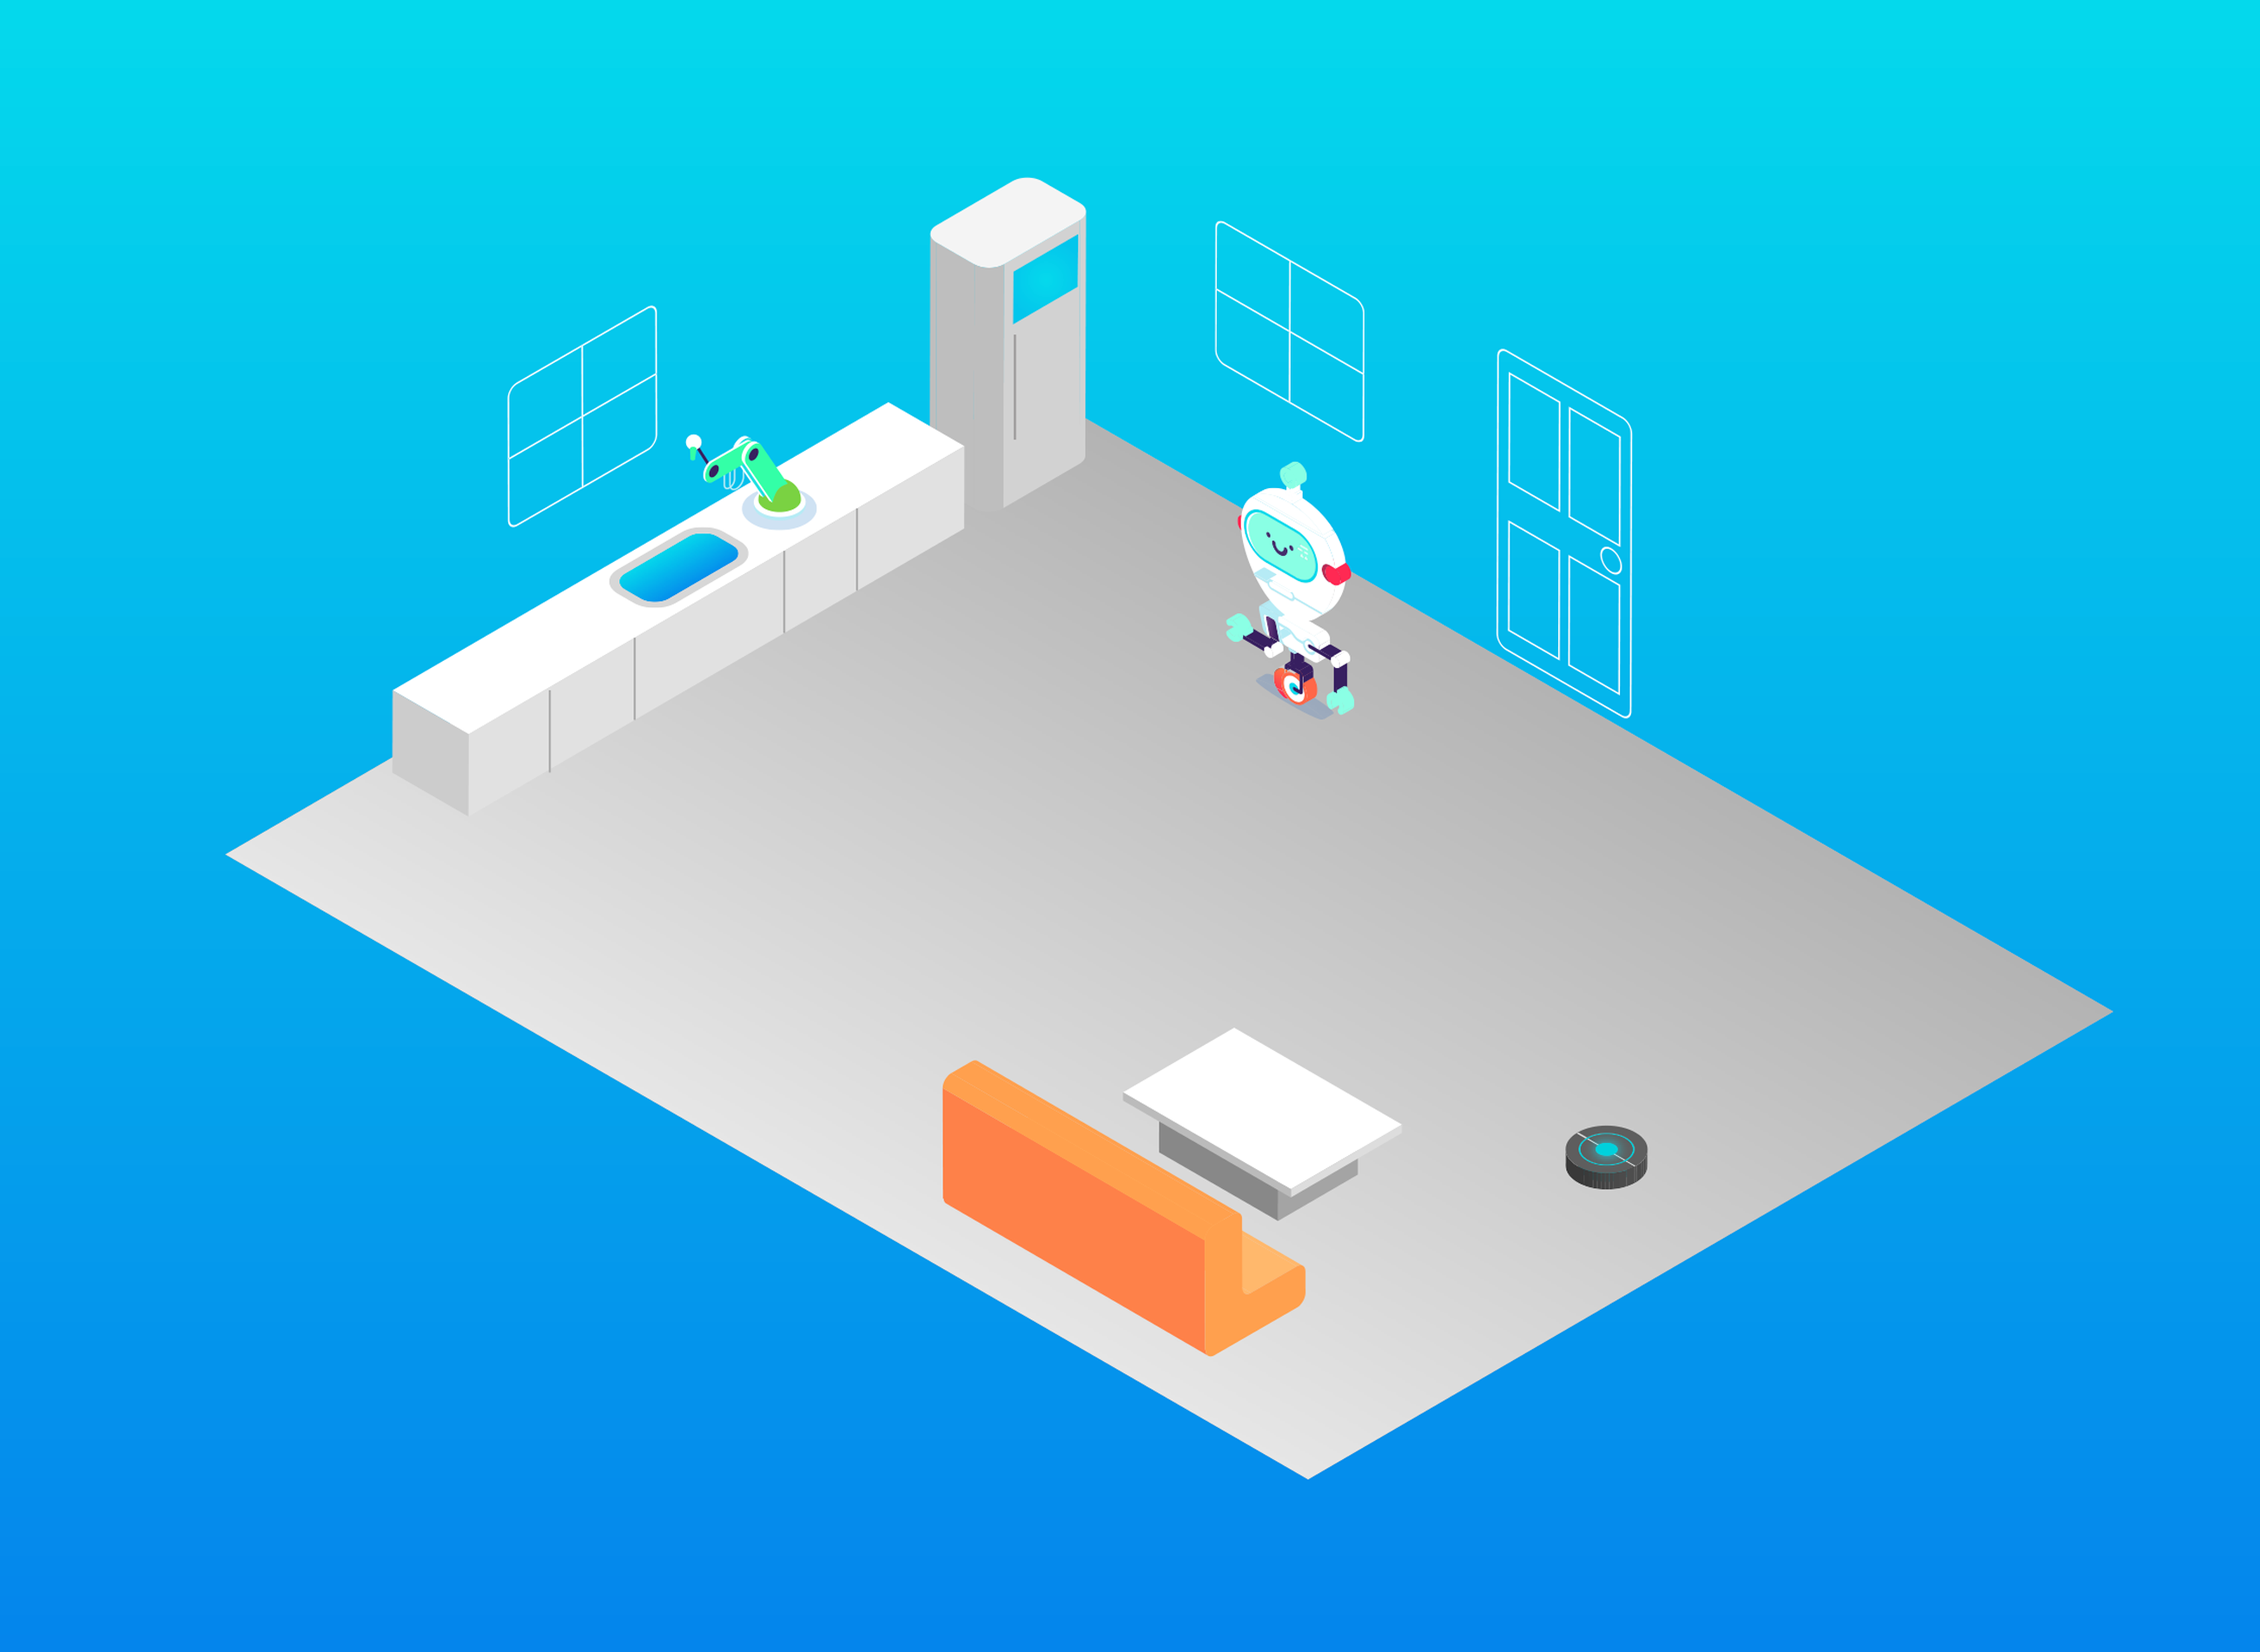
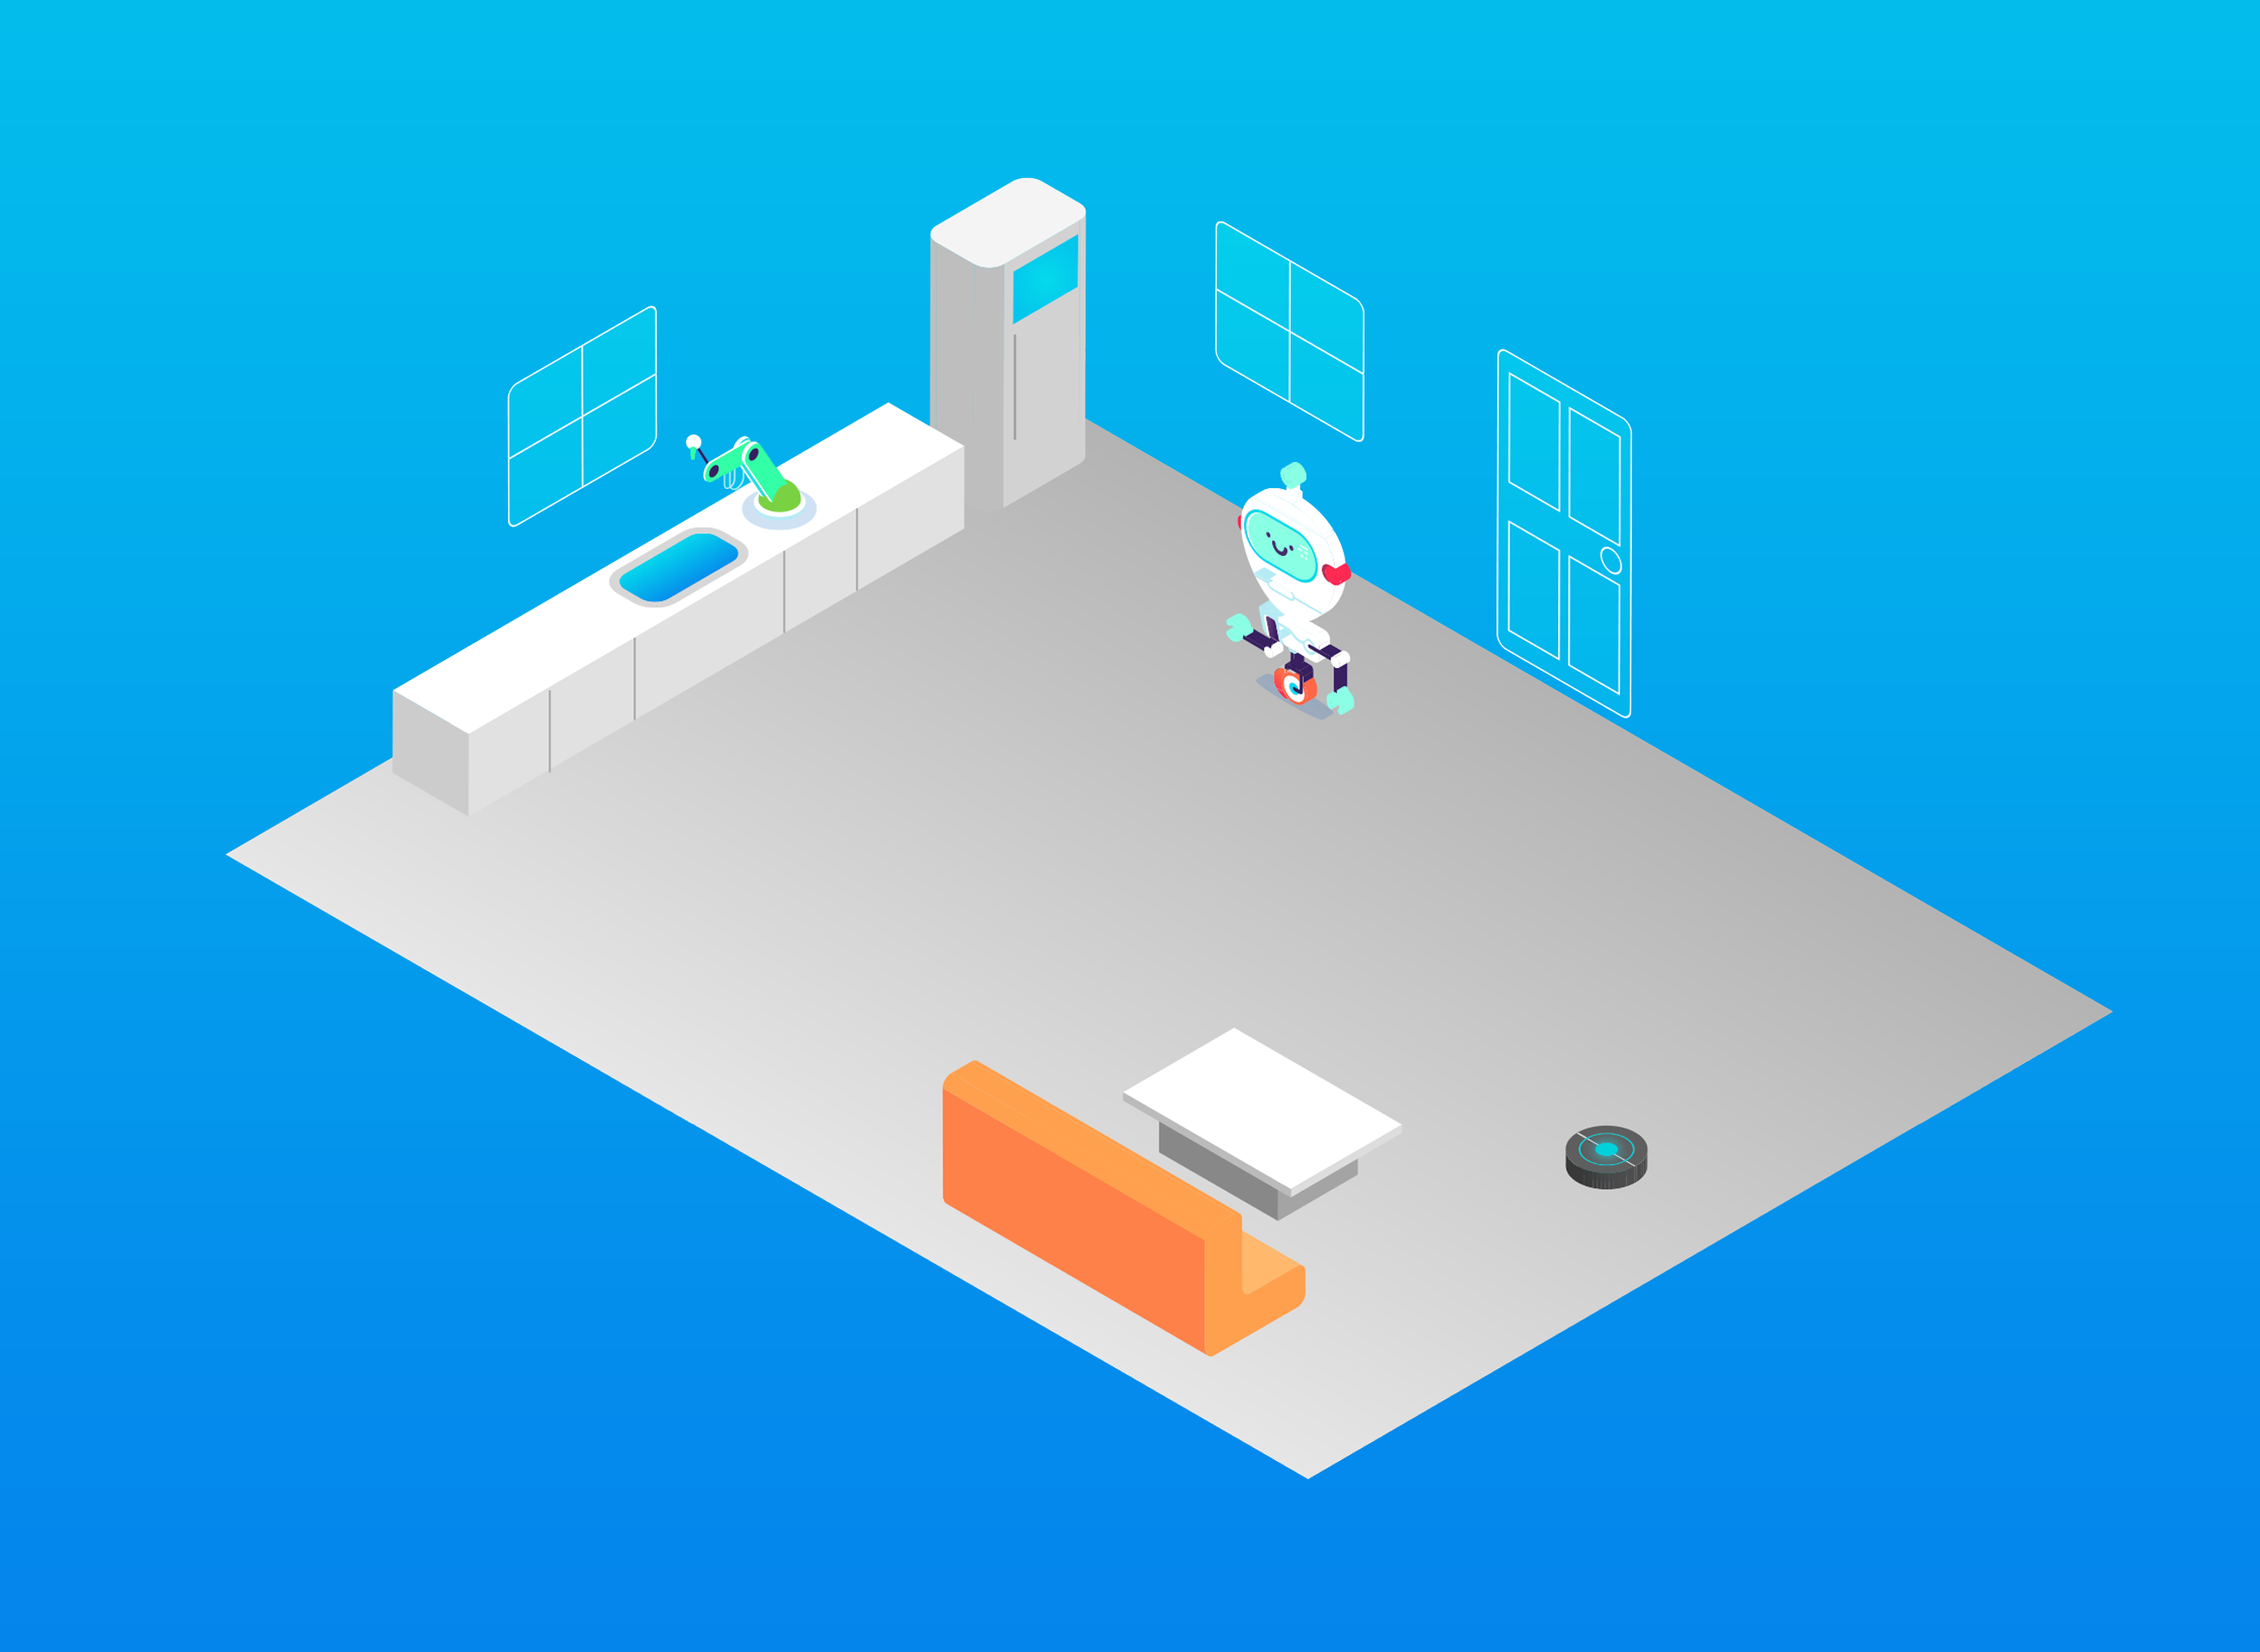
added 12

Changed region(s): [[0.0, 0.0, 1.0, 0.0931]]

diff --git a/index.html b/index.html
@@ -75,6 +75,7 @@
 					<ul id="side-nav">
 						<li><a href="#section1">Intro</a></li>
 						<li><a href="#section2">Forests</a></li>
+						<li><a href="#section12">Home</a></li>
 						<li><a href="#section3">Oceans</a></li>
 						<li><a href="#section4">Space</a></li>
 						<li><a href="#section5">Energy</a></li>
@@ -159,6 +160,21 @@
 				</div>
 			</div>
 
+
+			</div><!-- END Container -->
+		</section><!-- END Work -->
+
+		<!--  - - - - - - -   - - - - - - -  Step 12 - - - - - - -   - - - - - - -   - - - - - - -  -->
+		<section id="section12" class="section12 section-background">
+
+			<div class="container">
+			<!-- Title -->
+			<div class="row padded-top">
+					<div class="col-xs-12 col-lg-8 col-lg-offset-2">
+						<h3>Smart Homes</h3>
+						<h2>There are lots of smart devices that can integrate with your home and help you out around the house.</h2>
+					</div>
+			</div>
 
 			</div><!-- END Container -->
 		</section><!-- END Work -->

diff --git a/css/style.css b/css/style.css
@@ -576,6 +576,12 @@ header .container {
 	background: url(../images/scenes/1.png);
 }
 
+.section12 {
+	background-color: #04d9ec;
+	background-image: linear-gradient(0deg, #0485ec 0%, #04d9ec 100%);
+	background: url(../images/scenes/12.png);
+}
+
 
 .section3 {
 	background-color: #0485ec;
